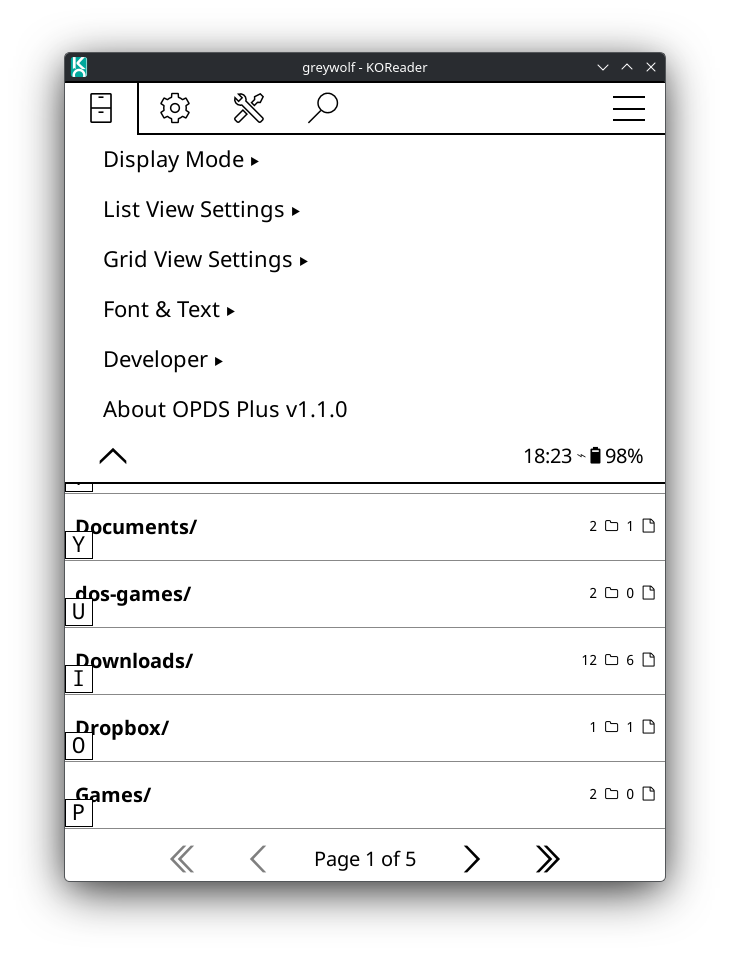
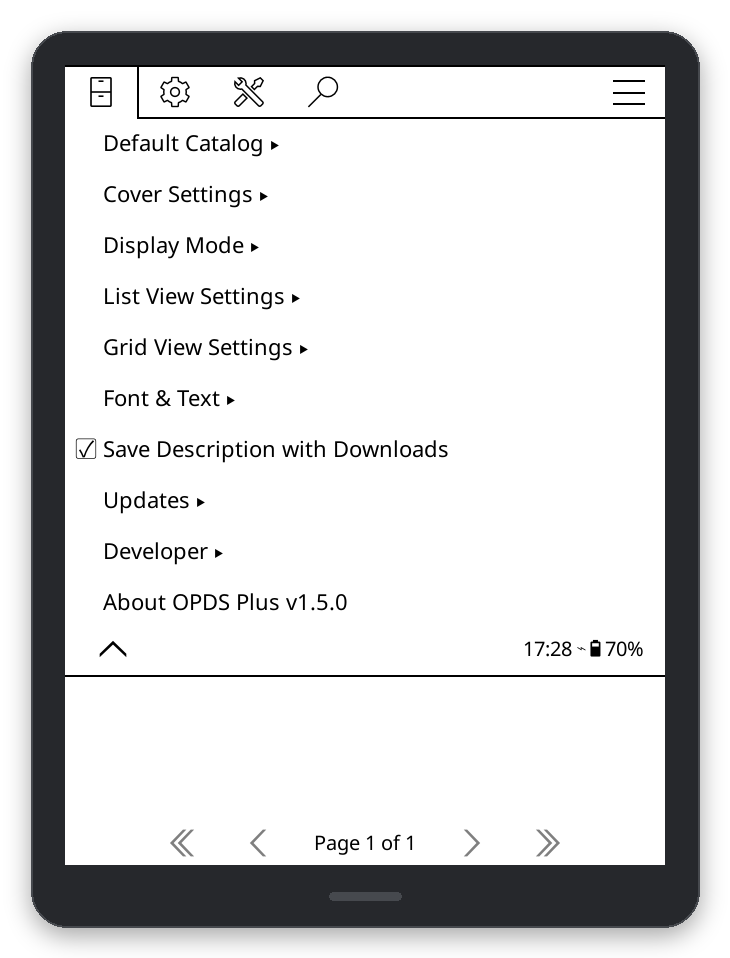
docs: refresh the README screenshots
Retake the list, grid, view menu and settings screenshots on 1.5.0 and
add the book details and update dialogs. They come from the catalog
kit's showcase of public-domain classics with generated covers, so no
real cover art is committed.

Changed region(s): [[0.0301, 0.0303, 0.9945, 0.999], [0.7233, 0.4541, 0.874, 0.4843]]

diff --git a/README.md b/README.md
@@ -75,6 +75,19 @@
 | ![View Toggle Menu](.github/screenshots/view_toggle_menu.png) | ![Settings Menu](.github/screenshots/settings_menu.png) |
 |             *Switch views instantly via the menu*             |            *Extensive customization options*            |
 
+|                       **Book Details**                        |                      **Updates**                       |
+| :-----------------------------------------------------------: | :----------------------------------------------------: |
+|    ![Book Details](.github/screenshots/book_details.png)     | ![Update Available](.github/screenshots/update_available.png) |
+|         *Author, series, language, formats and more*          |        *Release notes, then install in one tap*        |
+
+|                     **OPDS 2.0 Shelves**                      |                   **Facets**                    |
+| :-----------------------------------------------------------: | :---------------------------------------------: |
+|  ![OPDS 2.0 Start Page](.github/screenshots/opds2_shelves.png)  | ![Facets](.github/screenshots/opds2_facets.png) |
+|     *Groups and shelves from an OPDS 2.0 start page*      |       *Narrow a catalog with its facets*        |
+
+The screenshots come from a mock catalog of public-domain classics with generated covers
+(`tools/e2e/catalog/screenshots.sh` regenerates them).
+
 ## 📥 Installation
 
 ### Method 1: Manual Installation (Recommended)
